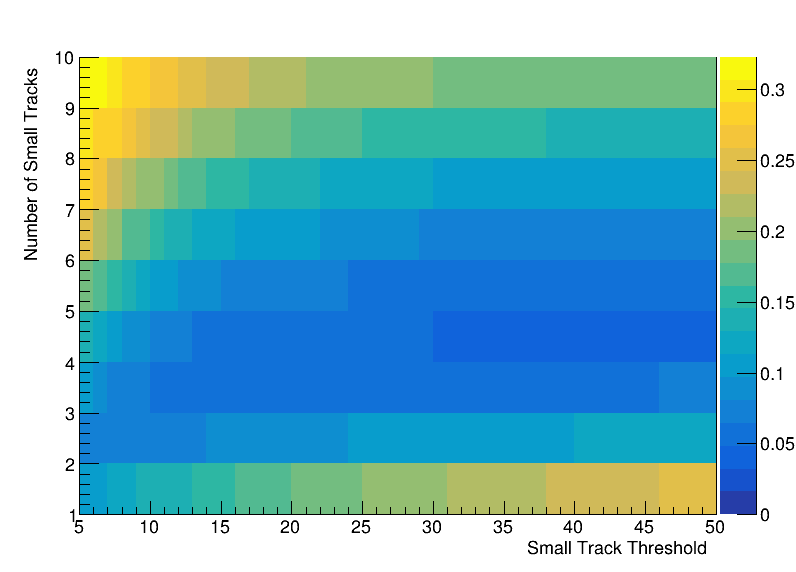
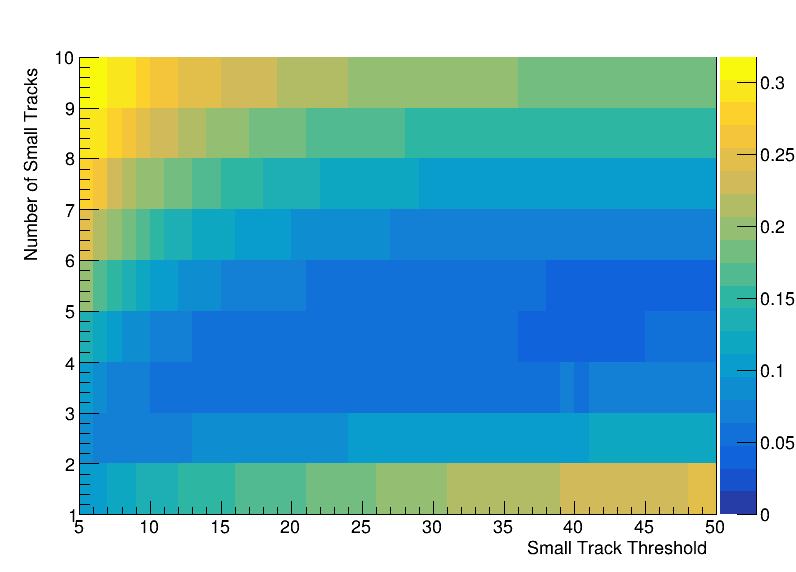
First curvature analysis

diff --git a/ShowerAnalysis.cc b/ShowerAnalysis.cc
@@ -45,12 +45,19 @@ void ShowerAnalysis() {
     tree->SetBranchAddress("matchedIdentity", &matchedIdentity);
     tree->SetBranchAddress("matchedLength", &matchedLength);
 
+    double WCMatchCurvature;
+    tree->SetBranchAddress("WCMatchCurvature", &WCMatchCurvature);
+
     // Declare histograms
     TH1D *hShowerRecoLengths = new TH1D("hShowerRecoLengths", "hShowerRecoLengths;;", 20, -1,-1);
     TH1D *hNoShowerRecoLengths = new TH1D("hNoShowerRecoLengths", "hNoShowerRecoLengths;;", 20, -1,-1);
 
     TH1D* hShowerSmallTracksCount = new TH1D("hShowerSmallTracksCount", "hShowerSmallTracksCount", 20, 0, 20);
     TH1D* hNoShowerSmallTracksCount = new TH1D("hNoShowerSmallTracksCount", "hNoShowerSmallTracksCount", 20, 0, 20);
+
+    TH1D* hCurvatureElectron = new TH1D("hCurvatureElectron", "hCurvatureElectron;;", 20, 0, 10);
+    TH1D* hCurvatureNegativePion = new TH1D("hCurvatureNegativePion", "hCurvatureNegativePion;;", 20, 0, 10);
+    TH1D* hCurvatureMuon = new TH1D("hCurvatureMuon", "hCurvatureMuon;;", 20, 0, 10);
 
     double TRACK_THRESHOLD = 35;
 
@@ -59,6 +66,7 @@ void ShowerAnalysis() {
     for (Int_t i = 0; i < NumEntries; ++i) {
         tree->GetEntry(i);
 
+        // Shower cut based on track lenghts
         bool isShower = false;
         if ((numEmmitedElectrons + numEmmitedPhotons) > 1) isShower = true;
 
@@ -72,6 +80,15 @@ void ShowerAnalysis() {
 
         if (isShower) hShowerSmallTracksCount->Fill(smallTrackCount);
         if (!isShower) hNoShowerSmallTracksCount->Fill(smallTrackCount);
+
+        // Shower cut based on track curvature
+        if (primaryParticlePDG == 11) { // electron
+            hCurvatureElectron->Fill(WCMatchCurvature);
+        } else if (primaryParticlePDG == -211) { // negative pion
+            hCurvatureNegativePion->Fill(WCMatchCurvature);
+        } else if (primaryParticlePDG == 13) { // muon
+            hCurvatureMuon->Fill(WCMatchCurvature);
+        }
     }
 
     // Setup for drawing plots
@@ -81,22 +98,26 @@ void ShowerAnalysis() {
 
     std::vector<std::vector<TH1*>> PlotGroups = {
         {hShowerRecoLengths, hNoShowerRecoLengths},
-        {hShowerSmallTracksCount, hNoShowerSmallTracksCount}
+        {hShowerSmallTracksCount, hNoShowerSmallTracksCount},
+        {hCurvatureElectron, hCurvatureNegativePion, hCurvatureMuon}
     };
 
     std::vector<std::vector<TString>> PlotLabelGroups = {
         {"Shower", "No shower"}, 
-        {"Shower", "No shower"}
+        {"Shower", "No shower"},
+        {"Electron", "Negative pion", "Muon"}
     };
 
     std::vector<TString> PlotTitles = {
         "TrackLenghts",
-        "SmallTrackCounts"
+        "SmallTrackCounts",
+        "TrackCurvature"
     };
     
     std::vector<TString> XLabels = {
         "Track length (cm)",
         "# of small tracks",
+        "Curvature proxy"
     };
 
     int numPlots = PlotGroups.size();
@@ -170,7 +191,7 @@ void ShowerAnalysis() {
         (NUMBER_TRACKS_MAX - NUMBER_TRACKS_MIN) / NUMBER_TRACKS_STEP, NUMBER_TRACKS_MIN, NUMBER_TRACKS_MAX
     );
 
-    TH2D& hAbsMisIDs = new TH2D(
+    TH2D* hAbsMisIDs = new TH2D(
         "hAbsMisIDs",
         ";Small Track Threshold;Number of Small Tracks",
         (TRACK_THRESHOLD_MAX - TRACK_THRESHOLD_MIN) / TRACK_THRESHOLD_STEP, TRACK_THRESHOLD_MIN, TRACK_THRESHOLD_MAX,
